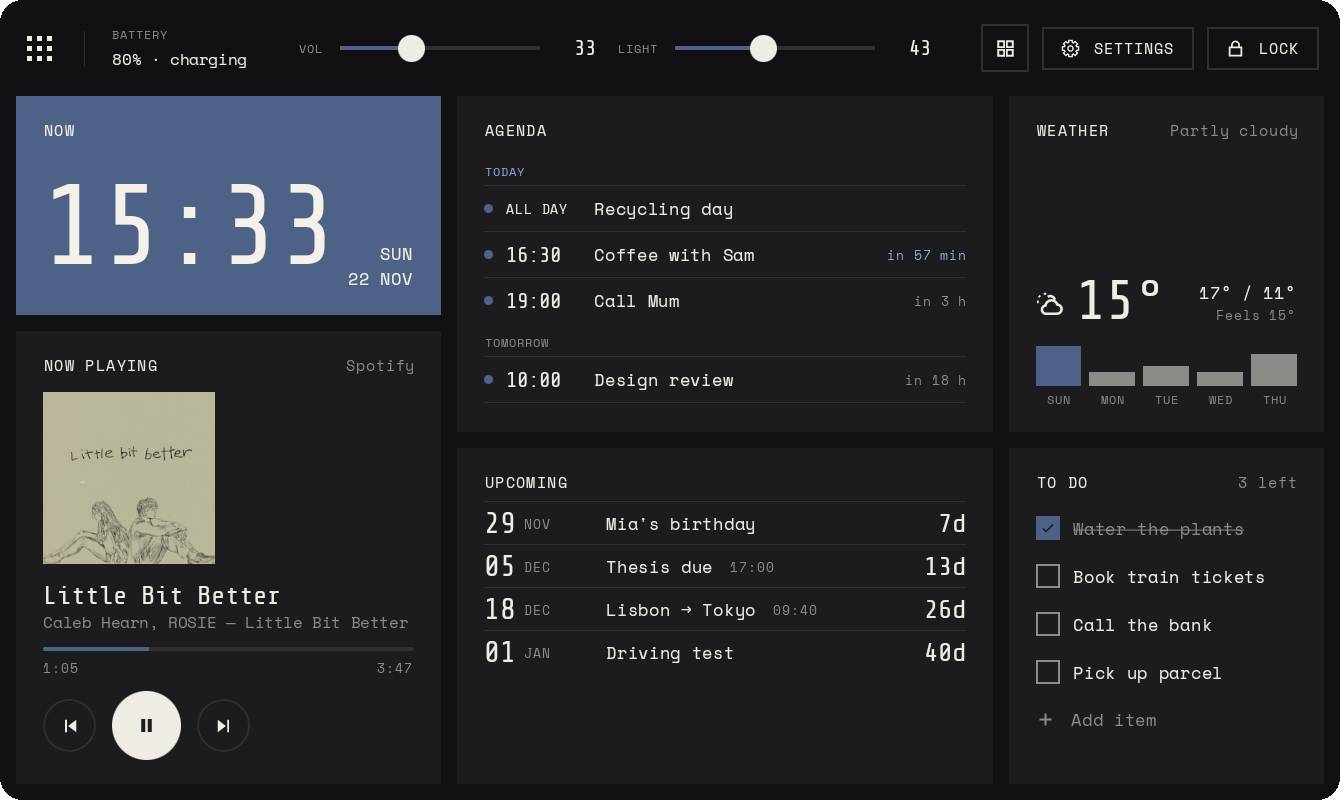
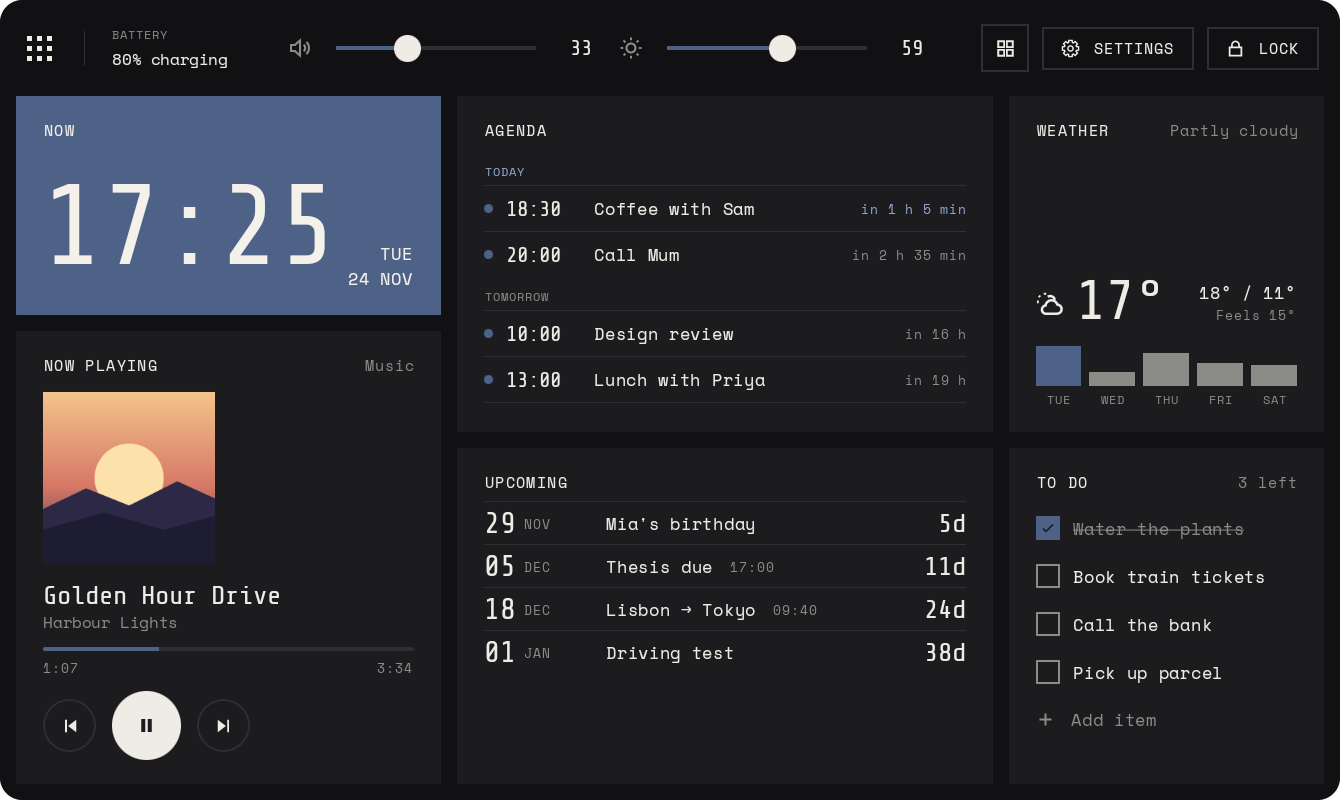
Docs: new screenshots, a remote-control section and GIF
All README images are retaken on the current build with the demo setup:
the hero, the four themes, the phone, night and weather panel and the
edit GIF now show the icon sliders and the cleaner wording. A new
Change it from your phone section has a GIF recorded on a real phone
and tablet together: the phone moves a tile and the tablet follows.
Install covers pairing, and the changelog lists the remote, the
dedicated remote mode and the calmer messages.

diff --git a/README.md b/README.md
@@ -12,15 +12,21 @@
   <a href="CHANGELOG.md">Changelog</a>
 </p>
 
-![The Deskdash dashboard: clock, agenda, weather, now playing, countdowns and a checklist](docs/hero.png)
+![The Deskdash dashboard: clock, agenda, weather, now playing, important dates and a checklist](docs/hero.png)
 
 ## Arrange it in seconds
 
 Press and hold any tile, then drag it where you want it; the tiles around it make room. Drag a corner to resize, tap a tile for its settings, and undo any step. Save different arrangements as presets and switch between them.
 
-Or do it from your phone: with Deskdash on both and the same Wi-Fi, pair once with a code and the phone becomes the tablet's remote. Rearrange its tiles, change its theme, weather, alarm and important dates from the couch, then exit to get your phone's own dashboard back. No account or server; the two talk directly over an encrypted connection.
+<p align="center"><img src="docs/edit.gif" alt="Holding the weather tile, moving it into the empty corner and widening the agenda" width="720"></p>
 
-<p align="center"><img src="docs/edit.gif" alt="Moving the weather tile and widening the agenda in edit mode" width="720"></p>
+## Change it from your phone
+
+The tablet sits across the room; your phone is in your hand. Put Deskdash on both, pair once with a six-digit code, and the phone becomes the tablet's remote. It shows the tablet's own dashboard: hold a tile to rearrange, tap one to change it, and open the tablet's settings to switch its theme, weather place, alarm, important dates or night hours. Every change lands on the tablet as you make it.
+
+There's no account and no server. The two find each other on your Wi-Fi and talk directly, over an encrypted connection only paired phones can open. If a phone is mostly a remote, set it to open straight onto the tablet.
+
+<p align="center"><img src="docs/remote.gif" alt="On the phone, holding the weather tile and dropping it lower; the tablet's dashboard rearranges to match" width="760"></p>
 
 ## Make it yours
 
@@ -30,7 +36,7 @@ Five colour themes, each in dark or light (one follows your wallpaper). Three fo
 
 ## At home on any screen
 
-Layouts adapt to phones and tablets in portrait or landscape. After the hours you choose, night mode dims everything down to a large clock with your next alarm and event. Tap the weather for the next 24 hours and the week ahead.
+Layouts adapt to phones and tablets, in landscape or portrait. After the hours you choose, night mode dims everything down to a large clock with your next alarm and event. Tap the weather for the next 24 hours and the week ahead.
 
 ![A phone layout, the night clock and the weather forecast](docs/screens.png)
 
@@ -38,12 +44,12 @@ Layouts adapt to phones and tablets in portrait or landscape. After the hours yo
 
 | | |
 |---|---|
-| **Time** | Clock, world clocks, countdowns to dates you add |
+| **Time** | Clock, world clocks, and the days left until the important dates you add |
 | **Calendar** | One agenda from device calendars, iCal links, `.ics` files and Google Calendar |
 | **Weather** | Current conditions, hourly and 7-day forecast for your location or any place |
 | **Music** | Now playing with art and controls for the music app you choose |
 | **Alarm & timers** | Alarm with repeat days and snooze; timer, stopwatch and focus sessions. They ring over the lock screen and survive reboots. |
-| **Everyday** | Checklist, sticky note, quote of the day, photo frame |
+| **Everyday** | Checklist (its own items or a Google Tasks list), sticky note, quote of the day, photo frame |
 | **Apps** | Favourite apps, recently used apps, app shortcuts |
 | **System** | Battery, storage and network; volume and brightness; ambient rain or noise |
 
@@ -57,8 +63,9 @@ A short setup on first launch covers theme, location, calendars and permissions;
 
 - **Home screen:** set Deskdash as your home app so it's always there. The ⋮⋮⋮ button opens your other apps.
 - **Screensaver:** *Settings › Display & power › Screensaver* shows the dashboard while the device charges.
+- **Remote control:** on the tablet, turn on *Settings › Remote control › Edit from another device* and tap **Pair**. On the phone, the same page lists the tablet; tap it and enter the code. Both need to be on the same Wi-Fi (guest networks usually keep devices apart).
 - **Samsung:** add Deskdash to *Battery › Background usage limits › Never sleeping apps* so alarms aren't delayed.
-- **Google Calendar sign-in** needs an OAuth client in your own build ([setup](docs/GOOGLE_CALENDAR.md)). Device calendars and iCal links work without it.
+- **Google Calendar and Google Tasks sign-in** need an OAuth client in your own build ([setup](docs/GOOGLE_CALENDAR.md)). Device calendars and iCal links work without it.
 
 ## Build
 

diff --git a/CHANGELOG.md b/CHANGELOG.md
@@ -2,7 +2,8 @@
 
 ## 1.1.0
 
-- **Remote control:** a phone running Deskdash on the same Wi-Fi becomes the tablet's remote. Its whole app shows and changes the tablet until you exit: the dashboard (move, resize, add and remove tiles, notes and to-dos), and the tablet's settings for appearance, dashboard and presets, important dates, weather, alarm and night mode. Pair once with a 6-digit code; the connection is encrypted and needs no account or server (Settings › Remote control). Off until you turn it on. A phone can also be set to work primarily as a remote: it then opens on your tablets: straight into the tablet once it's online when there's just one, until you turn remote mode off.
+- **Remote control:** a phone running Deskdash on the same Wi-Fi becomes the tablet's remote. Its whole app shows and changes the tablet until you exit: rearrange tiles by holding one, tap a tile to change it, and open the tablet's settings for appearance, presets, important dates, weather, alarm and night mode. Pair once with a 6-digit code; the connection is encrypted and needs no account or server. It's off until you turn on *Settings › Remote control › Edit from another device* on the tablet.
+- **Dedicated remote:** set a phone to work primarily as a remote and it opens on your tablets instead of its own dashboard, going straight into the tablet when there's only one and it's online.
 - **Google Tasks:** a Checklist tile can show one of your Google Tasks lists; ticking and adding items saves to Google.
 - **Screensaver:** Deskdash can be Android's screensaver: the dashboard, view-only, while charging (Settings › Display & power).
 - **Backup:** export and import presets, layouts, settings, the alarm, important dates and iCal links as one file (Settings › Backup).
@@ -19,6 +20,8 @@
 - Countdowns are now called Important dates.
 - Weather detail shows wind units, and its forecast columns line up.
 - Layouts carried to another screen size (a phone in landscape, say) keep their arrangement with no gaps, and the top bar fits narrower screens.
+- No pop-up messages: the tile picker dims tiles that won't fit and says how much space they need, and the alarm asks for full-screen alerts in its settings rather than jumping to a system page.
+- Calmer wording throughout, without dot separators: Rings tmrw, Snoozed until 07:09, 3h ahead.
 - Settings: the alarm can be turned on from its settings page; matching pickers for units and snooze; theme cards share one row; clearer permission descriptions.
 
 ## 1.0.0
